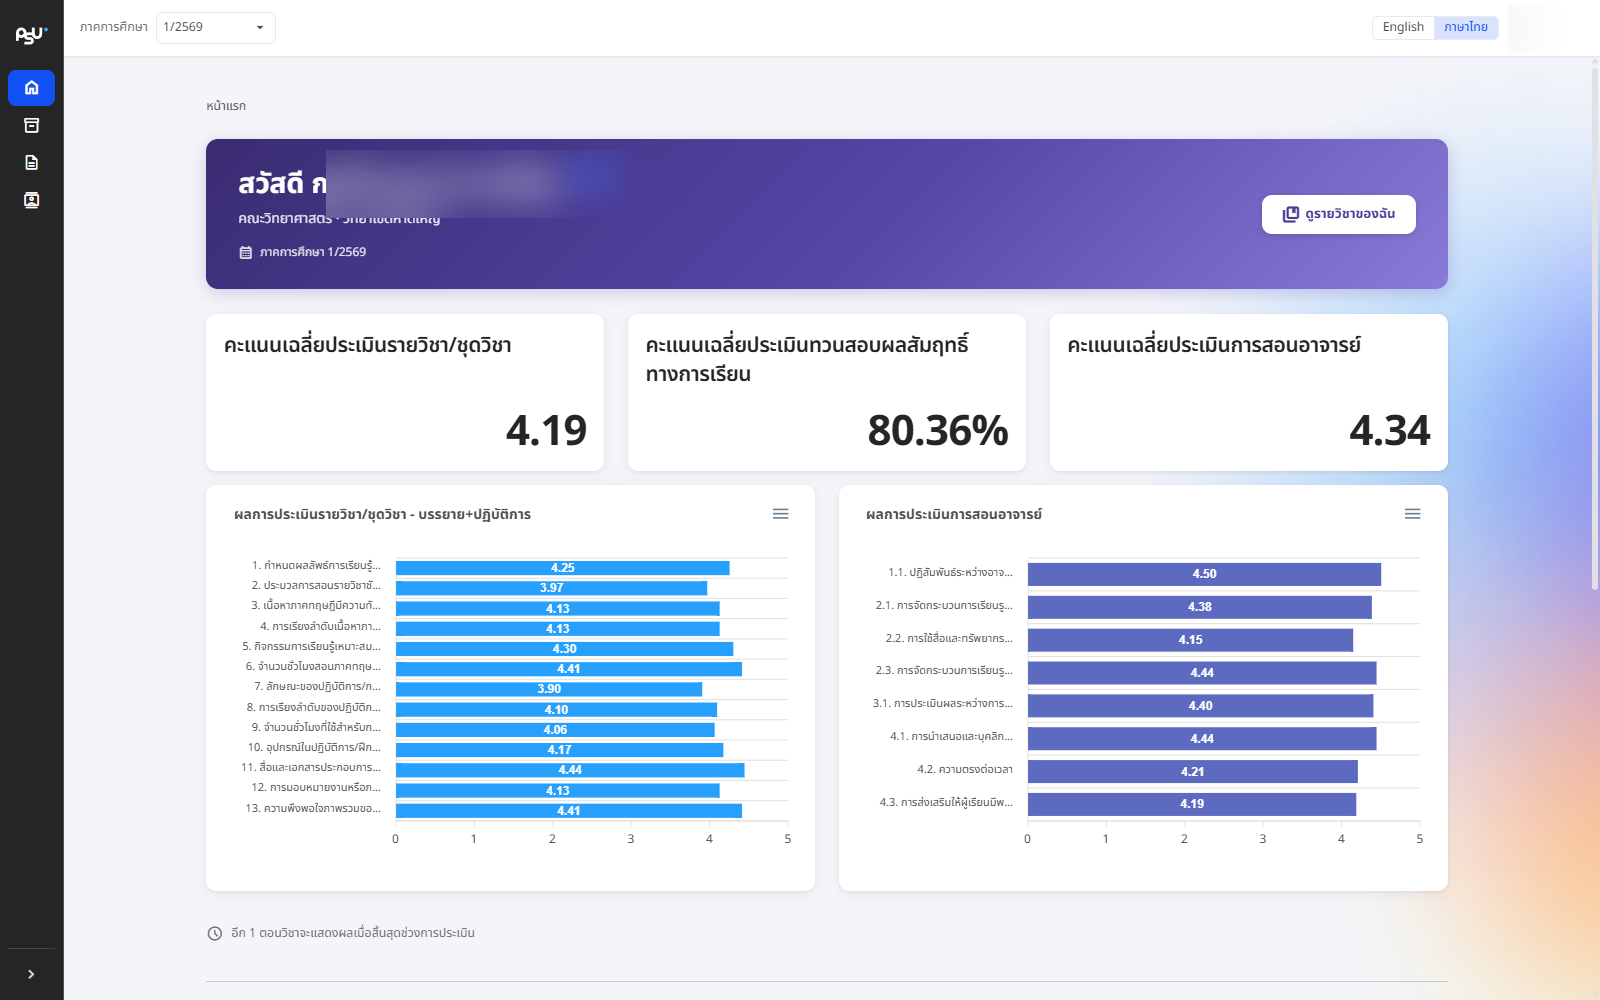
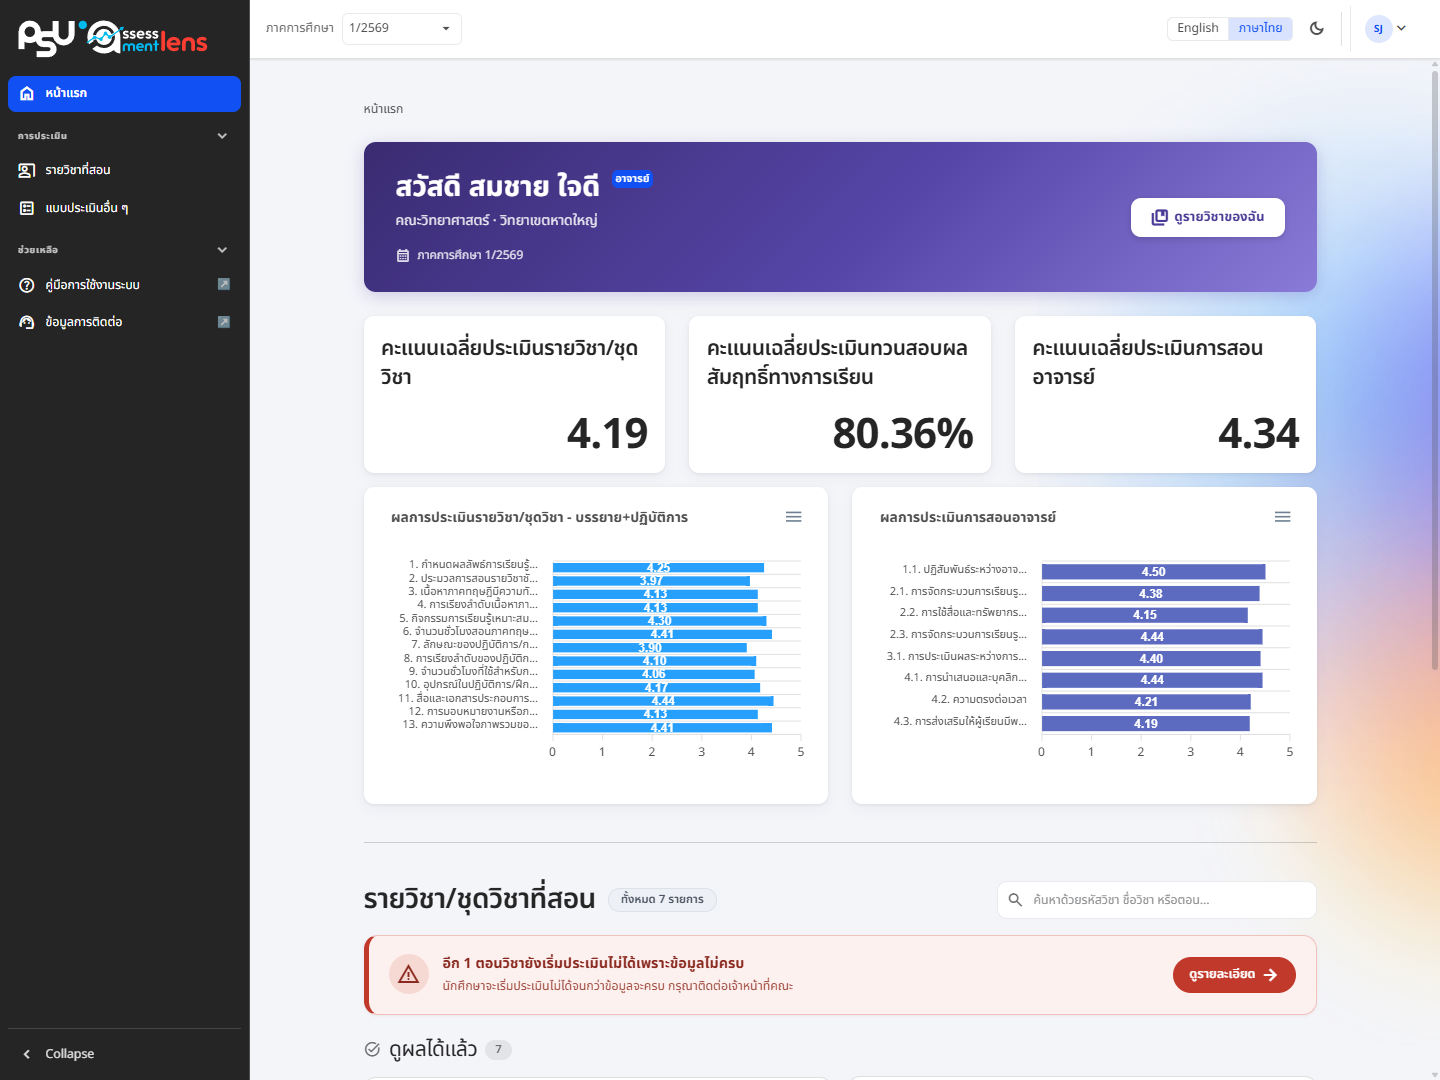
docs: refresh v2 screenshots at 1440x1080 and fix draft-save wording
Recapture all 16 user-manual screenshots from the live site at 1440x1080
(4:3, light mode, Thai) with names, usernames, emails and IDs replaced by
placeholders and the admin-impersonation chip hidden.

student/evaluation.md: the evaluation page renders only "บันทึกร่างและไปต่อ"
(CourseEvaluation.razor never renders the standalone Save button), so drop
the บันทึกร่าง bullet and re-place ส่งแบบประเมิน in the ตรวจสอบและส่ง header bar.

diff --git a/student/evaluation.md b/student/evaluation.md
@@ -3,8 +3,7 @@
 การประเมิน 1 วิชาจะมี **3 ส่วน** ทำไล่ไปตามลำดับ และปิดท้ายด้วยแท็บ **"ตรวจสอบและส่ง"** ท่านทำทีละส่วนไปเรื่อย ๆ ส่วนถัดไปจะปลดล็อกให้เองเมื่อผ่านส่วนก่อนหน้า ระหว่างทางมีแถบแสดงความคืบหน้า (progress rail) อยู่ด้านข้างคอยบอกว่าแต่ละส่วนทำไปถึงไหนแล้ว จะกดส่งได้ก็ต่อเมื่อตอบครบทุกส่วน ใช้เวลาไม่นานเลย
 
 * บางข้อยังไม่อยากตอบตอนนี้ก็ข้ามไปก่อนได้ แล้วค่อยกลับมาตอบภายหลัง
-* กด **บันทึกร่าง** เพื่อเก็บคำตอบไว้ก่อน (ยังไม่ส่ง) แล้วกลับมาทำต่อเมื่อไรก็ได้
-* ปุ่ม **"บันทึกร่างและไปต่อ"** ช่วยบันทึกคำตอบและพาไปส่วนถัดไปในคลิกเดียว
+* ปุ่ม **"บันทึกร่างและไปต่อ"** มุมขวาบนของแต่ละส่วน ช่วยเก็บคำตอบไว้ก่อน (ยังไม่ส่ง) และพาไปส่วนถัดไปในคลิกเดียว ออกจากหน้านี้แล้วกลับมาทำต่อเมื่อไรก็ได้
 
 ด้านบนของแบบประเมินจะบอกรายละเอียดวิชา (รหัสวิชา ชื่อวิชา ตอน หน่วยกิต) พร้อมแถบความคืบหน้าและปุ่มย้อนกลับ
 
@@ -38,7 +37,7 @@
 
 ## การส่งแบบประเมิน
 
-ปุ่ม **"ส่งแบบประเมิน"** อยู่มุมบนขวาของหน้าจอ ถัดจากปุ่มบันทึกร่าง กดแล้วจะมีหน้าต่างให้ยืนยันอีกครั้ง
+ปุ่ม **"ส่งแบบประเมิน"** อยู่มุมขวาบนของแถบหัวข้อในแท็บ "ตรวจสอบและส่ง" (ที่เดียวกับปุ่ม "บันทึกร่างและไปต่อ" ของส่วนก่อนหน้า) กดแล้วจะมีหน้าต่างให้ยืนยันอีกครั้ง
 
 {% hint style="warning" %}
 เมื่อยืนยันส่งแล้ว จะ **แก้ไขคำตอบไม่ได้อีก** จึงควรตรวจทานให้เรียบร้อยก่อนกดยืนยันนะครับ/คะ
